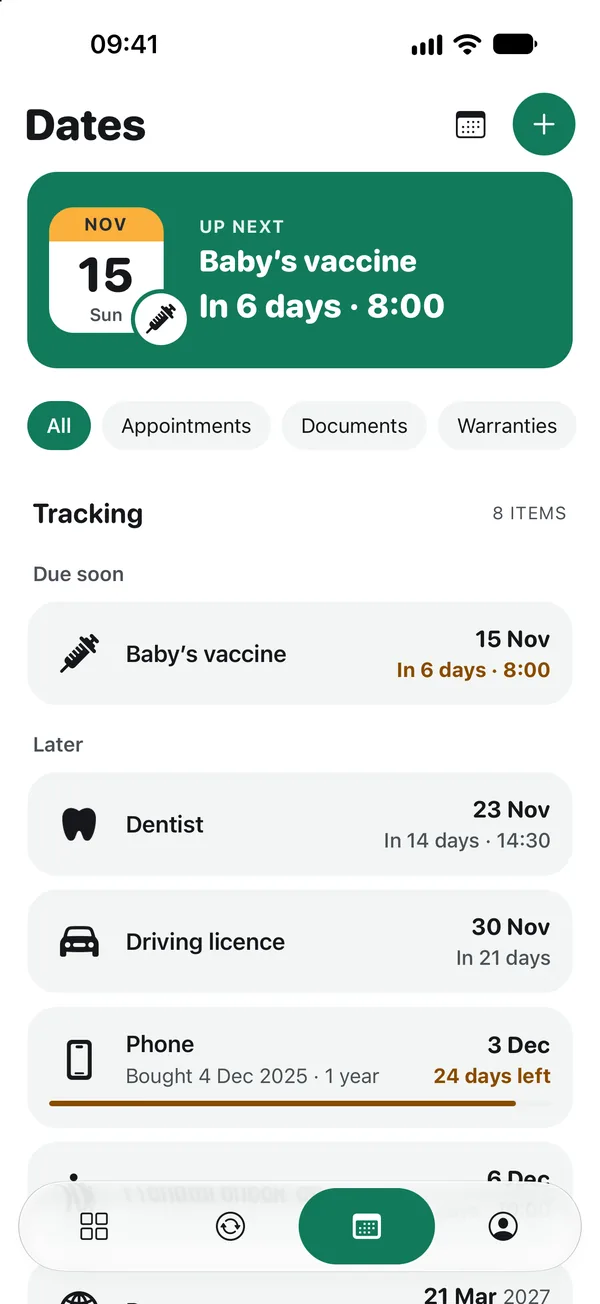
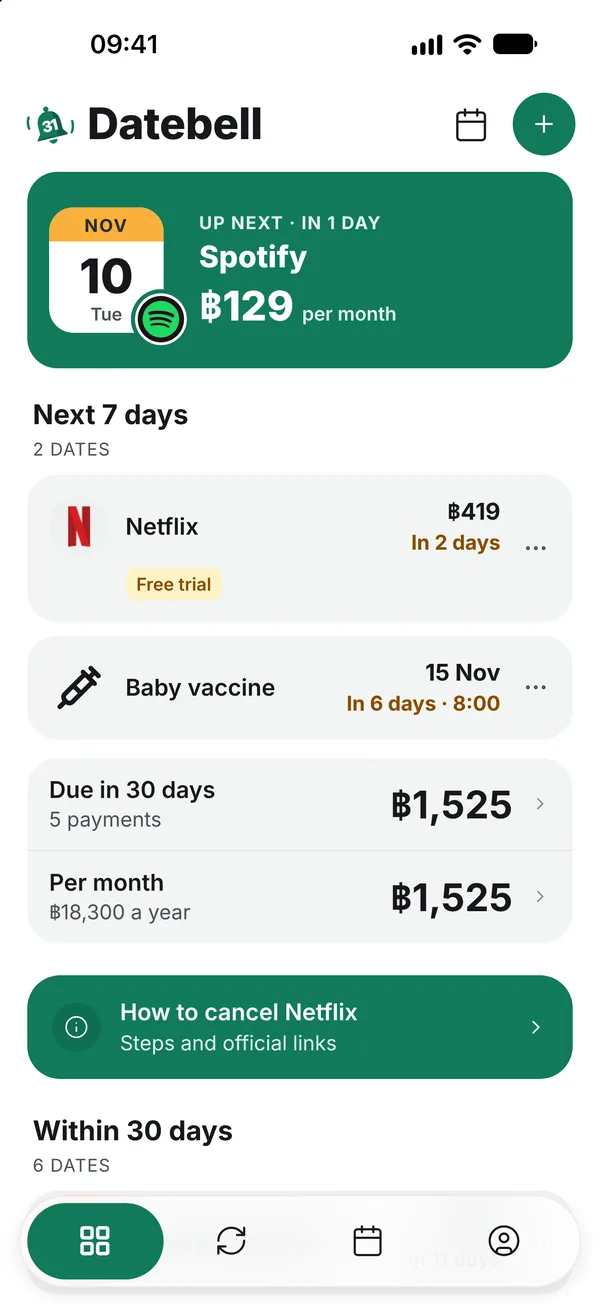
Website: demo opens on the first screen and plays a customer journey
First screen with app logos, quick add Netflix, Home, the 2-day trial
reminder, the Netflix item with cancel steps, then Subscriptions with
the monthly total. Screens are the 1.3.0 web build with the Simulator
status bar; the reminder uses the app's own notification text.
?ct= passthrough to the App Store link is unchanged.

Claude-Session: https://claude.ai/code/session_01ERD6PwTw2P9cU9ZvoMyexE

diff --git a/index.html b/index.html
@@ -114,8 +114,8 @@ html[lang="th"] [data-l="th"],html[lang="en"] [data-l="en"]{display:revert}
   }
 
   var STEPS={
-    th:['เพิ่มค่าสมาชิก บัตร หรือนัดหมาย','รวมค่าสมาชิกไว้ที่เดียว เห็นยอดต่อเดือน','ใบขับขี่ พาสปอร์ต ประกัน เตือนก่อนหมดอายุ','นัดหมอ ฉีดวัคซีน เตือนล่วงหน้า','เปิดปฏิทิน รู้เลยว่าวันไหนจ่ายอะไร','แล้ว Datebell ก็เตือนก่อนถึงวัน'],
-    en:['Add a subscription, card or appointment','All your subscriptions and the monthly total','Licence, passport, warranties: reminded before they expire','Doctor visits and vaccines, reminded ahead','See the whole month on a calendar','Then Datebell reminds you before the day']
+    th:['เปิดมาก็เจอแอปที่คุณใช้อยู่','แตะ Netflix ใส่ราคากับวันที่ แล้วบันทึก','ทุกวันสำคัญอยู่ในหน้าเดียว','Datebell เตือนก่อนทดลองฟรีหมด 2 วัน','ไม่ใช้ต่อ? มีวิธียกเลิกให้เลย','เห็นยอดค่าสมาชิกรวมต่อเดือน'],
+    en:['Open it and your apps are already there','Tap Netflix, add the price and date, save','Every date on one screen','Reminded 2 days before the trial ends','Not keeping it? The steps to cancel are right there','See what you pay each month']
   };
   var LABEL={th:'ขั้นที่ ',en:'Step '};
   var BADGE={th:'https://tools.applemarketingtools.com/api/badges/download-on-the-app-store/black/th-th',en:'img/badge-en.svg'};
